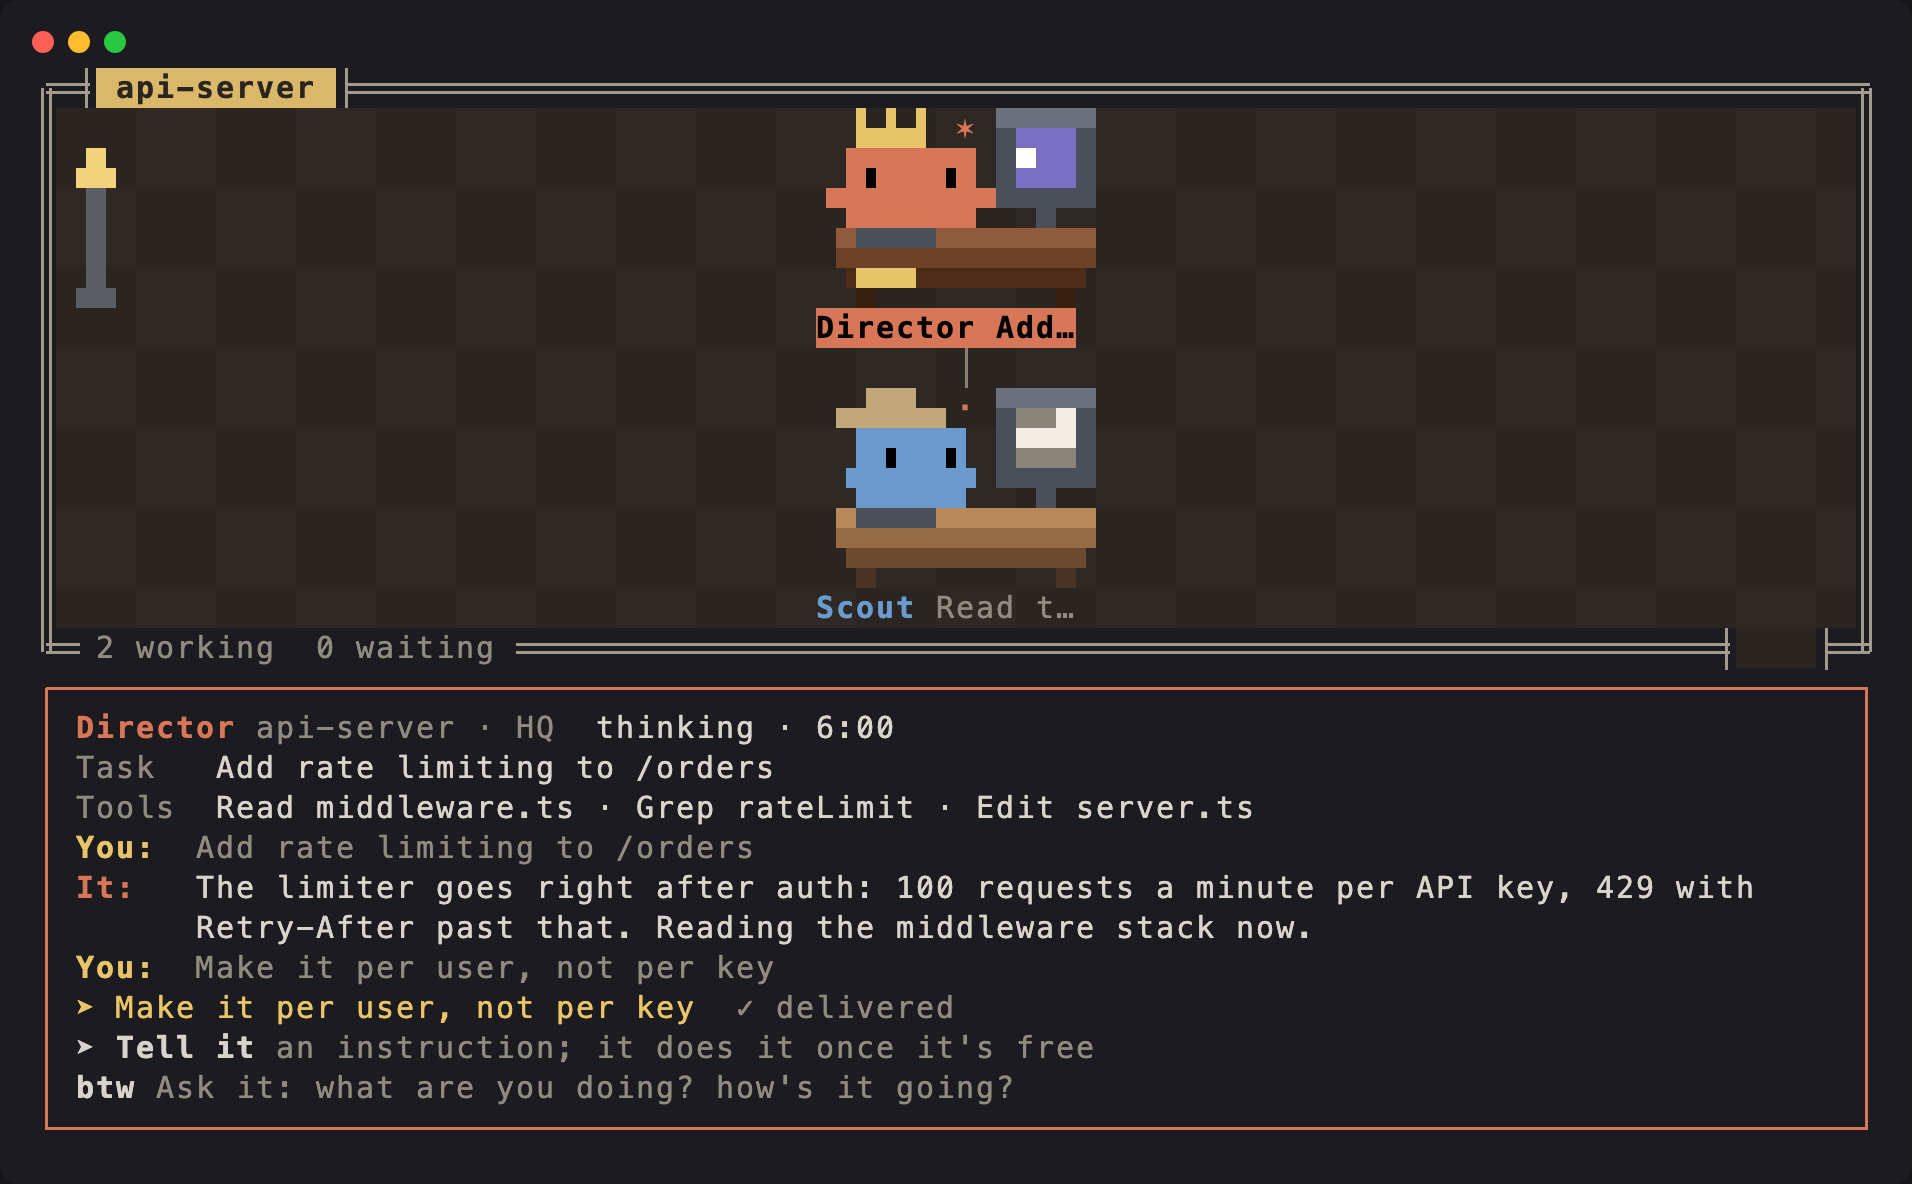
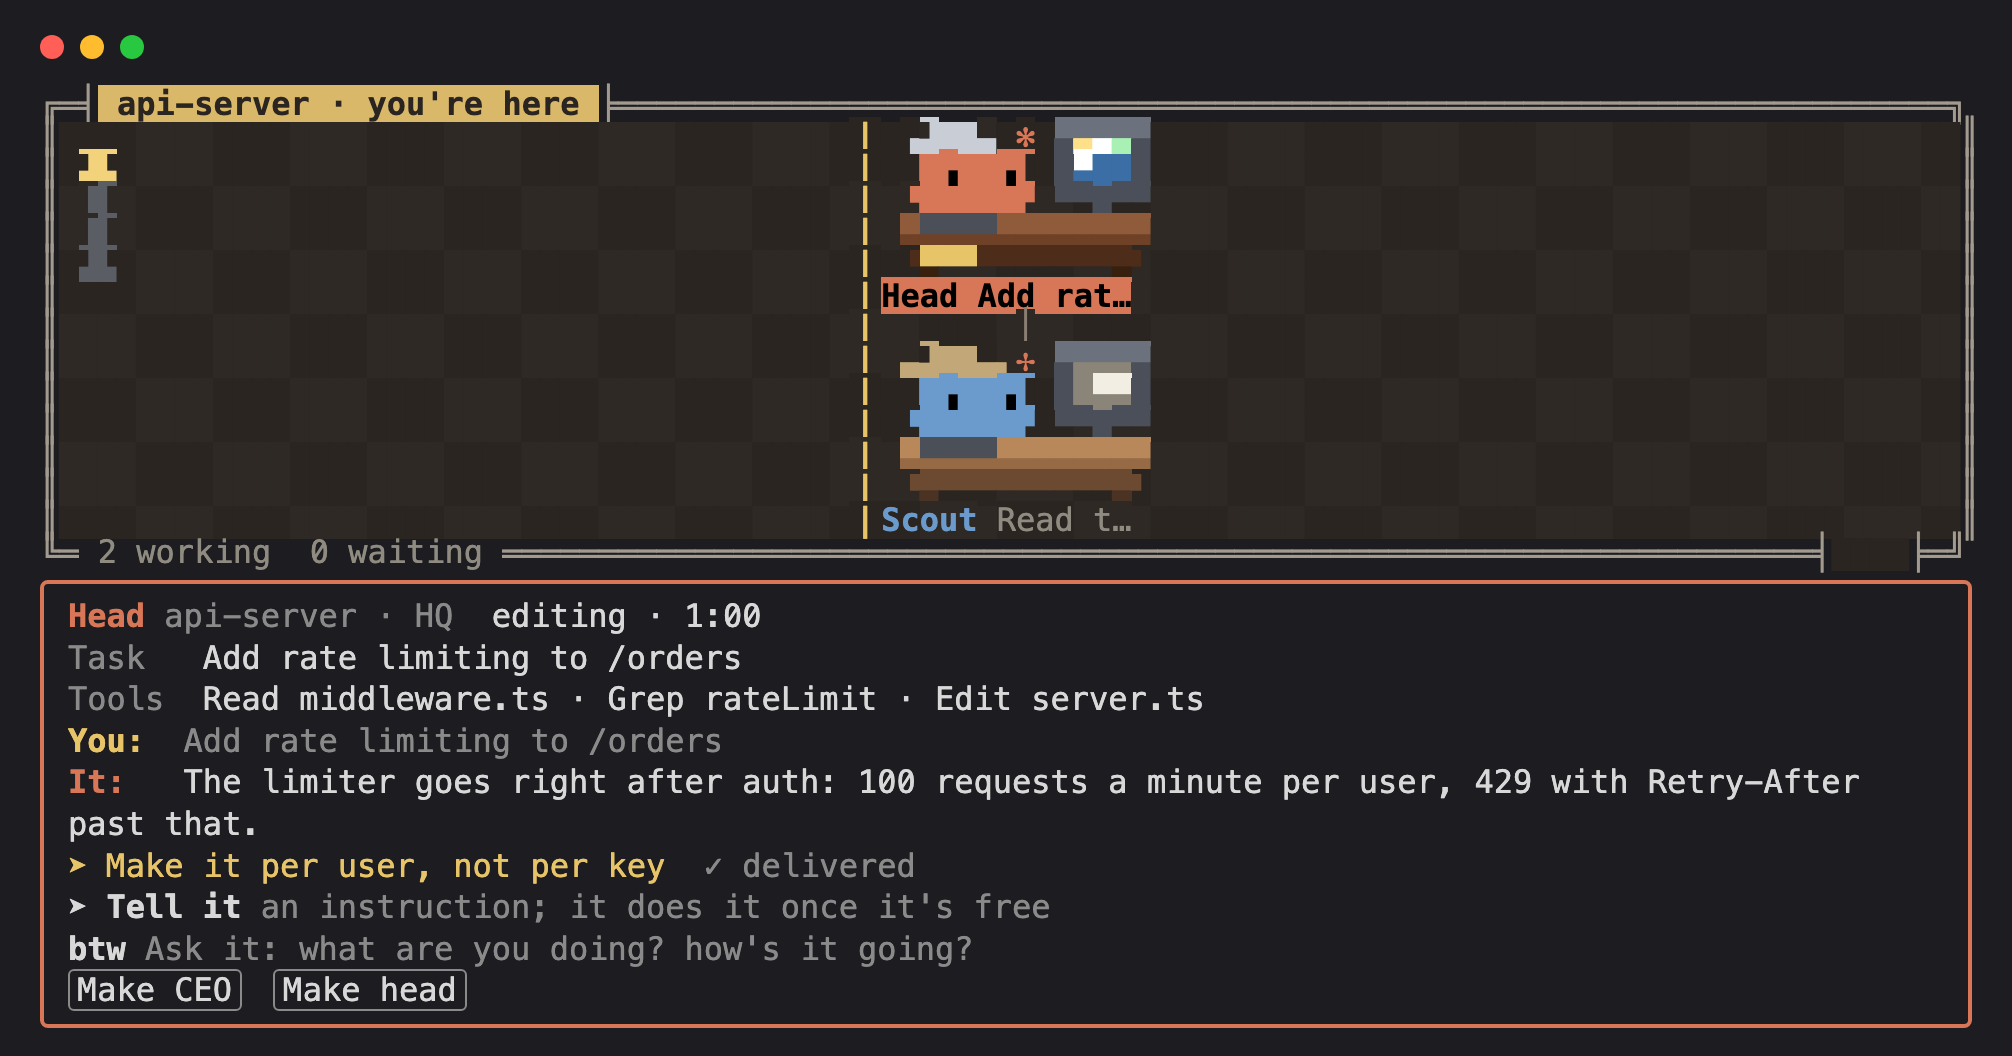
docs: the README shows the whole pane, a head's card and text mode
The pane picture now has the CEO's tracker under its office, what waits on
the chairman above the board, and the field to write on it; the card is a
head's; a new picture shows /office text. Text mode prints the tracker as
the pane shows it, a coloured dot, the title and a line. 0.6.5.

Changed region(s): [[0.0, 0.0312, 0.9874, 1.0]]

diff --git a/tests/text.test.ts b/tests/text.test.ts
@@ -38,10 +38,16 @@ test("a card as text: its rows, its talk, each instruction delivered or still wa
   expect(text).toContain(`改 README  ${w().orderQueued}`)
 })
 
-test("the CEO's tracker as text: each line with its status, owner and where it stands", async () => {
+test("the CEO's tracker as text, as the pane shows it: a coloured dot, the title and where it stands", async () => {
   const company = companyOf([], "a", T0, { memos: [], claims: [] })
-  const text = officeText(company, [], [{ name: "phoenix-down", status: "stuck", owner: "infra", text: "查 ECS 事件", when: "14:31" }])
-  expect(text).toContain(w().linesHead(1))
-  expect(text).toMatch(/phoenix-down .*infra .*查 ECS 事件/)
-  expect(text).toContain(w().lineStatus.stuck)
+  const text = officeText(company, [], [
+    { name: "对话反馈", status: "stuck", owner: "infra", text: "等评测跑完", when: "14:31" },
+    { name: "断点续上", status: "ok", text: "模拟器在测", when: "14:32" },
+  ])
+  expect(text).toContain(w().linesHead(2))
+  expect(text).toContain("🔴 对话反馈  等评测跑完")
+  expect(text).toContain("🟢 断点续上  模拟器在测")
+  // no owner, time or status word: more than the chairman wanted to read
+  expect(text).not.toContain("infra")
+  expect(text).not.toContain("14:31")
 })

diff --git a/hooks/text.ts b/hooks/text.ts
@@ -23,11 +23,12 @@ function seatLine(seat: SeatData, indent: string, sign: string | null | undefine
   return `${indent}${mark} ${name}${sign ? ` [${sign}]` : ""}  ${status}${seat.task ? ` · ${clip(seat.task, TASK_MAX)}` : ""}`
 }
 
+// As the pane shows it, a dot for how it stands, its title and where it is; text
+// has no colour, so the dot is one that carries its own.
+const DOTS: Record<string, string> = { stuck: "🔴", risk: "🟡", ok: "🟢", waiting: "🟡", done: "⚪" }
+
 export function linesText(lines: LineRow[]): string[] {
-  return [
-    w().linesHead(lines.length),
-    ...lines.map((l) => `  ${l.name}  ${w().lineStatus[l.status]}  ${l.owner === undefined ? "" : `${l.owner} · `}${clip(l.text, TASK_MAX * 2)} · ${l.when}`),
-  ]
+  return [w().linesHead(lines.length), ...lines.map((l) => `  ${DOTS[l.status] ?? "●"} ${l.name}  ${l.text}`)]
 }
 
 export function officeText(company: Company, waiting: { id: string; who: string; text: string }[], lines: LineRow[] = []): string {

diff --git a/hooks/register.tsx b/hooks/register.tsx
@@ -85,7 +85,7 @@ import { setLanguage, w } from "./words.ts"
 
 const PANE = "crab-office"
 // Bumped with each sync; every session's snapshot carries it.
-const BUILD = "2026-11-05.12"
+const BUILD = "2026-11-05.13"
 const COMMAND = "office"
 const BOARD_TOOL = "office_board"
 const TICK_MS = 1000

diff --git a/README.md b/README.md
@@ -2,7 +2,7 @@
 
 Every Claude Code session running on your machine, and every subagent it hires, drawn as a pixel-art office.
 
-![The office: the CEO in an office of its own, three sessions at a meeting (one with a ? for you), a head delegating to three crew, and the shared whiteboard](docs/office.png)
+![The pane: the CEO in an office of its own with its tracker under it, three sessions at a meeting (one with a ? for you), a head delegating to three crew, what waits on you just above the shared whiteboard, and the field to write on the board](docs/office.png)
 
 - **Departments**: each repository gets a room, and each git worktree of it is a team inside that room.
 - **Org charts**: a session is a team. Its manager is the session itself and its crew are its subagents, hung from one line. Each repository has a **Head** in a silver top hat (its longest-serving session, unless one is appointed); every other manager wears a hat of their own.
@@ -20,7 +20,7 @@ Every Claude Code session running on your machine, and every subagent it hires, 
 - **Observe mode**: install it everywhere and let it only watch: [observe mode](#observe-mode) shows sessions and sends them nothing, and every `-p` run or SDK session observes by itself.
 - **The board tool**: every session gets an `office_board` tool to read the board, write to a whole department, everyone or you without interrupting anyone, call and close meetings, and, under a CEO, run the work.
 
-![A manager's card: its task, tools and recent conversation, an instruction delivered, and fields to give another or ask a btw](docs/card.png)
+![A head's card: its task, tools and recent conversation, an instruction delivered, fields to give another or ask a btw, and buttons to make it CEO or head](docs/card.png)
 
 ## The CEO: a super-agent built from Claude Code
 
@@ -80,6 +80,8 @@ The office speaks English by default. To switch to Chinese, set the plugin's `la
 | `/office head @who` | Make a session its repository's head; `/office head off` to go back to the longest-serving |
 | `/office band` | Show or hide the strip of crabs above the prompt |
 | `/office close` | Close the office |
+
+![Text mode: /office text prints the tracker, every session with its marks, what waits on you with ids, and the board](docs/text.png)
 
 In the pane:
 

diff --git a/DESIGN.md b/DESIGN.md
@@ -315,7 +315,8 @@ CEO's to decide. The decisions behind all of this are in
 ## Text mode
 
 Where the pane will not open, or a click will not land, the office answers by
-command, as text: `/office text` (each room and session, by title, with its ?,
+command, as text: `/office text` (the CEO's tracker as the pane shows it, a
+🔴🟡🟢 dot, since text has no colour, a title and a line; each room and session, by title, with its ?,
 ! or ✉, what waits on the chairman with each item's id, and the board's last
 ten lines), `/office card @who` (the card: its rows, talk, each instruction
 delivered or waiting, each btw with its answer), `/office answer #id …` and
